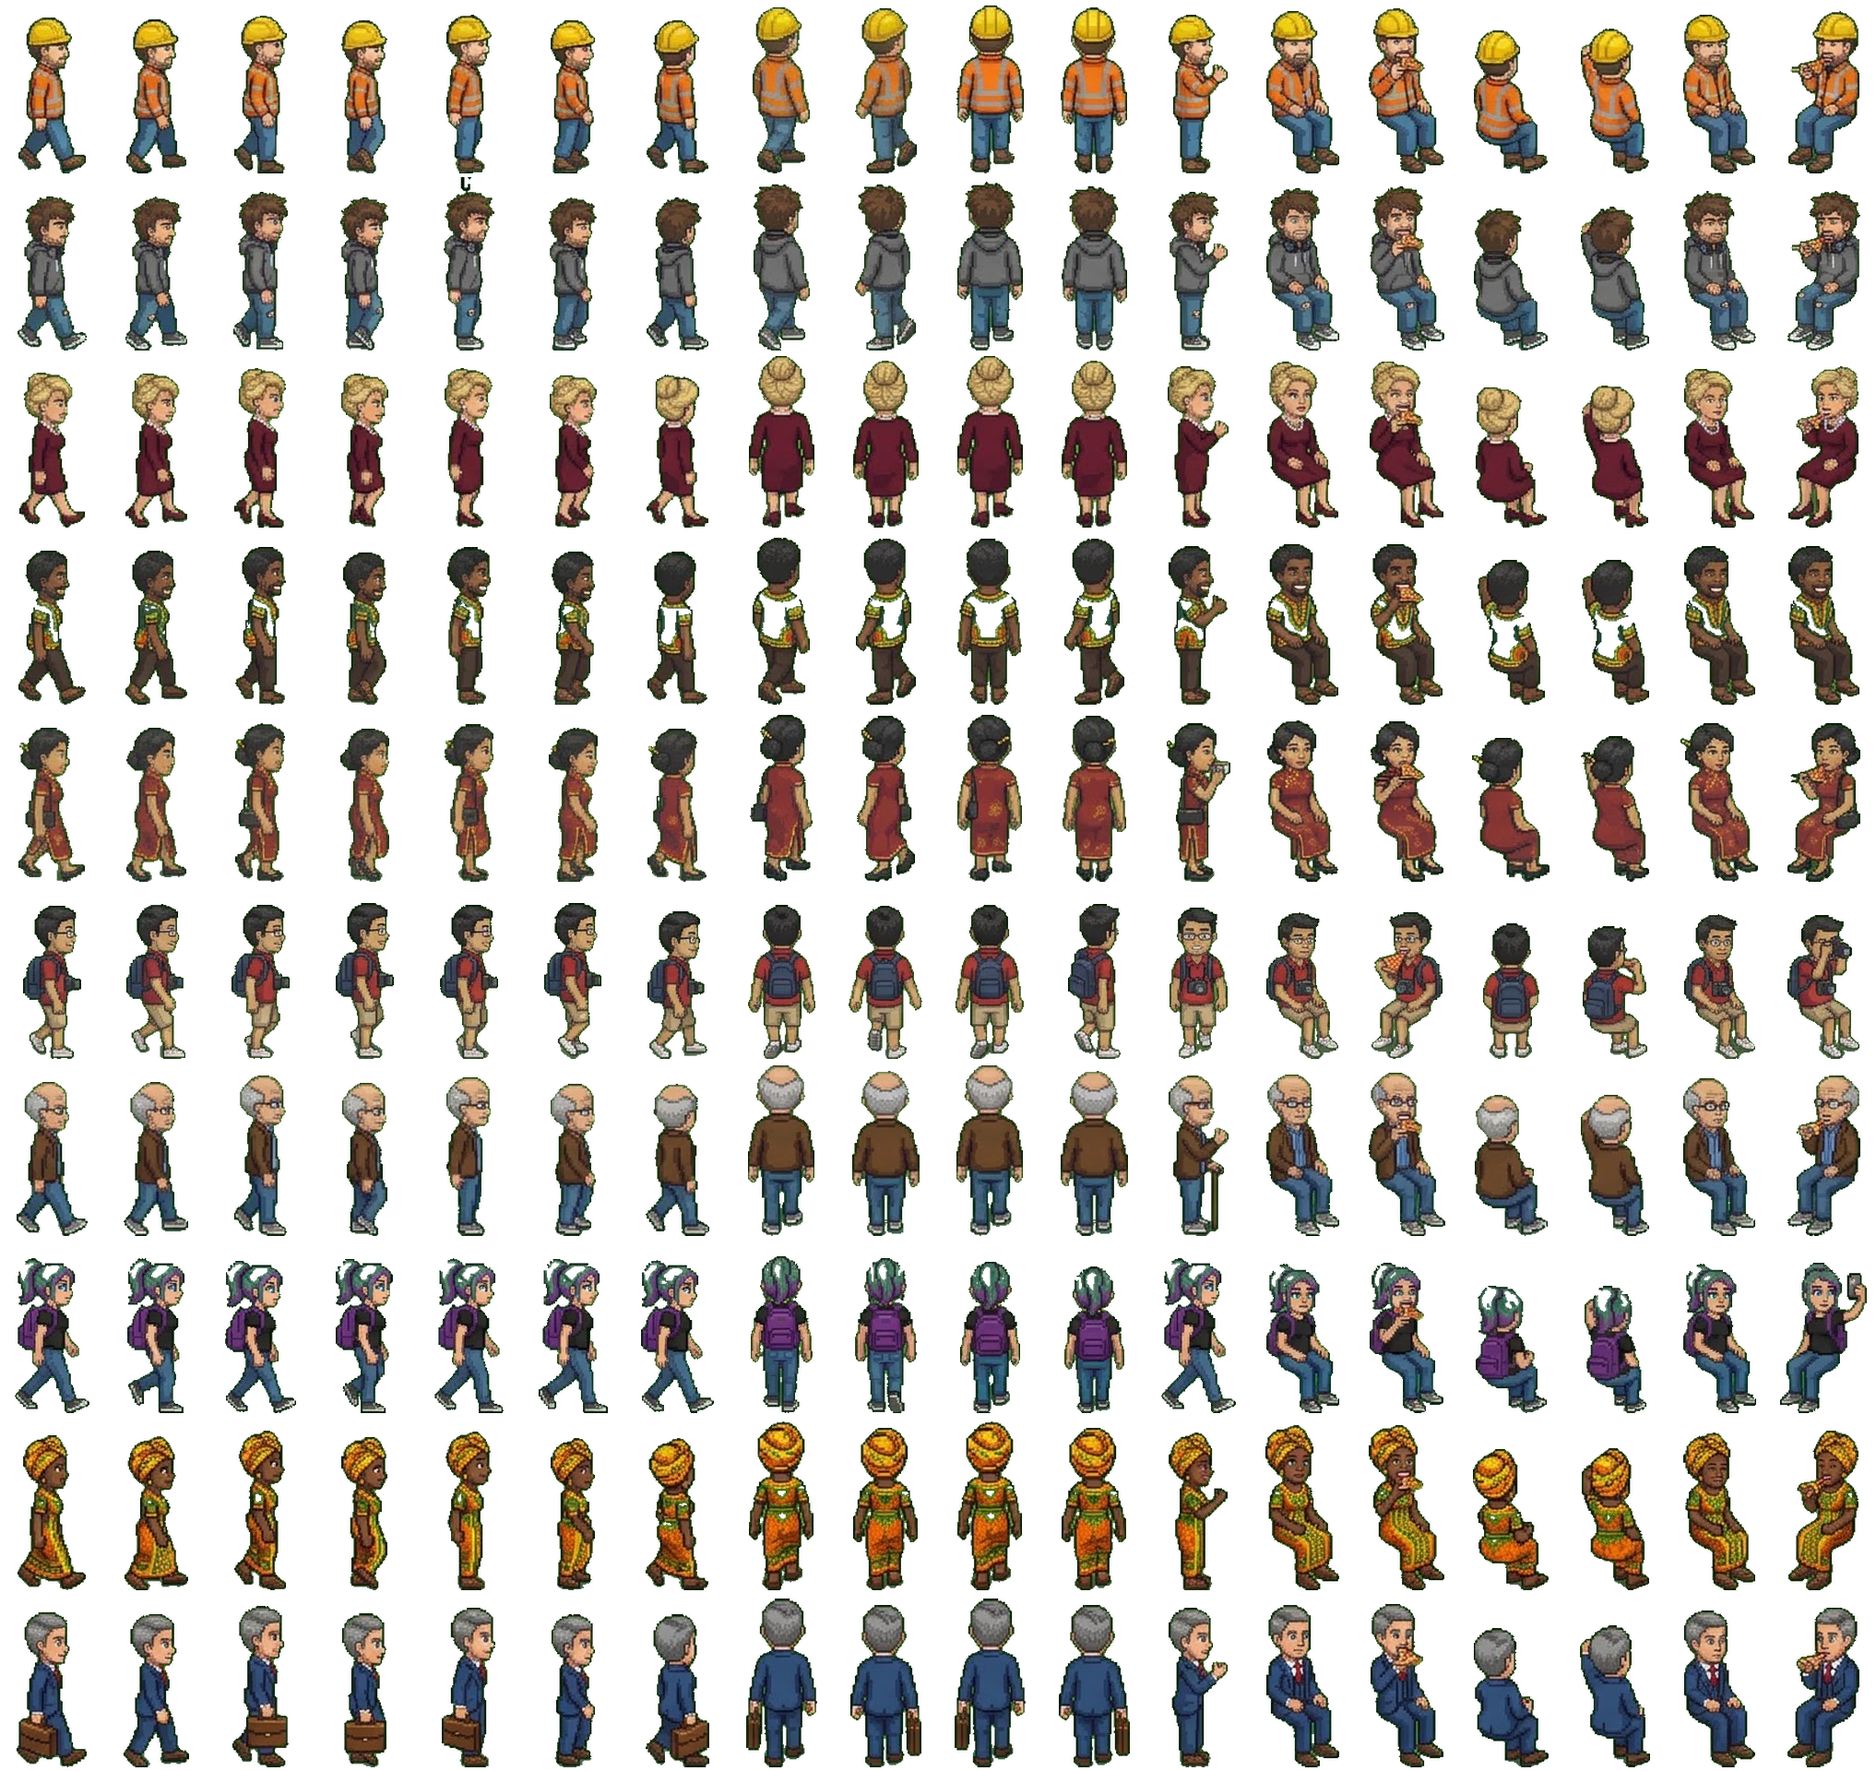
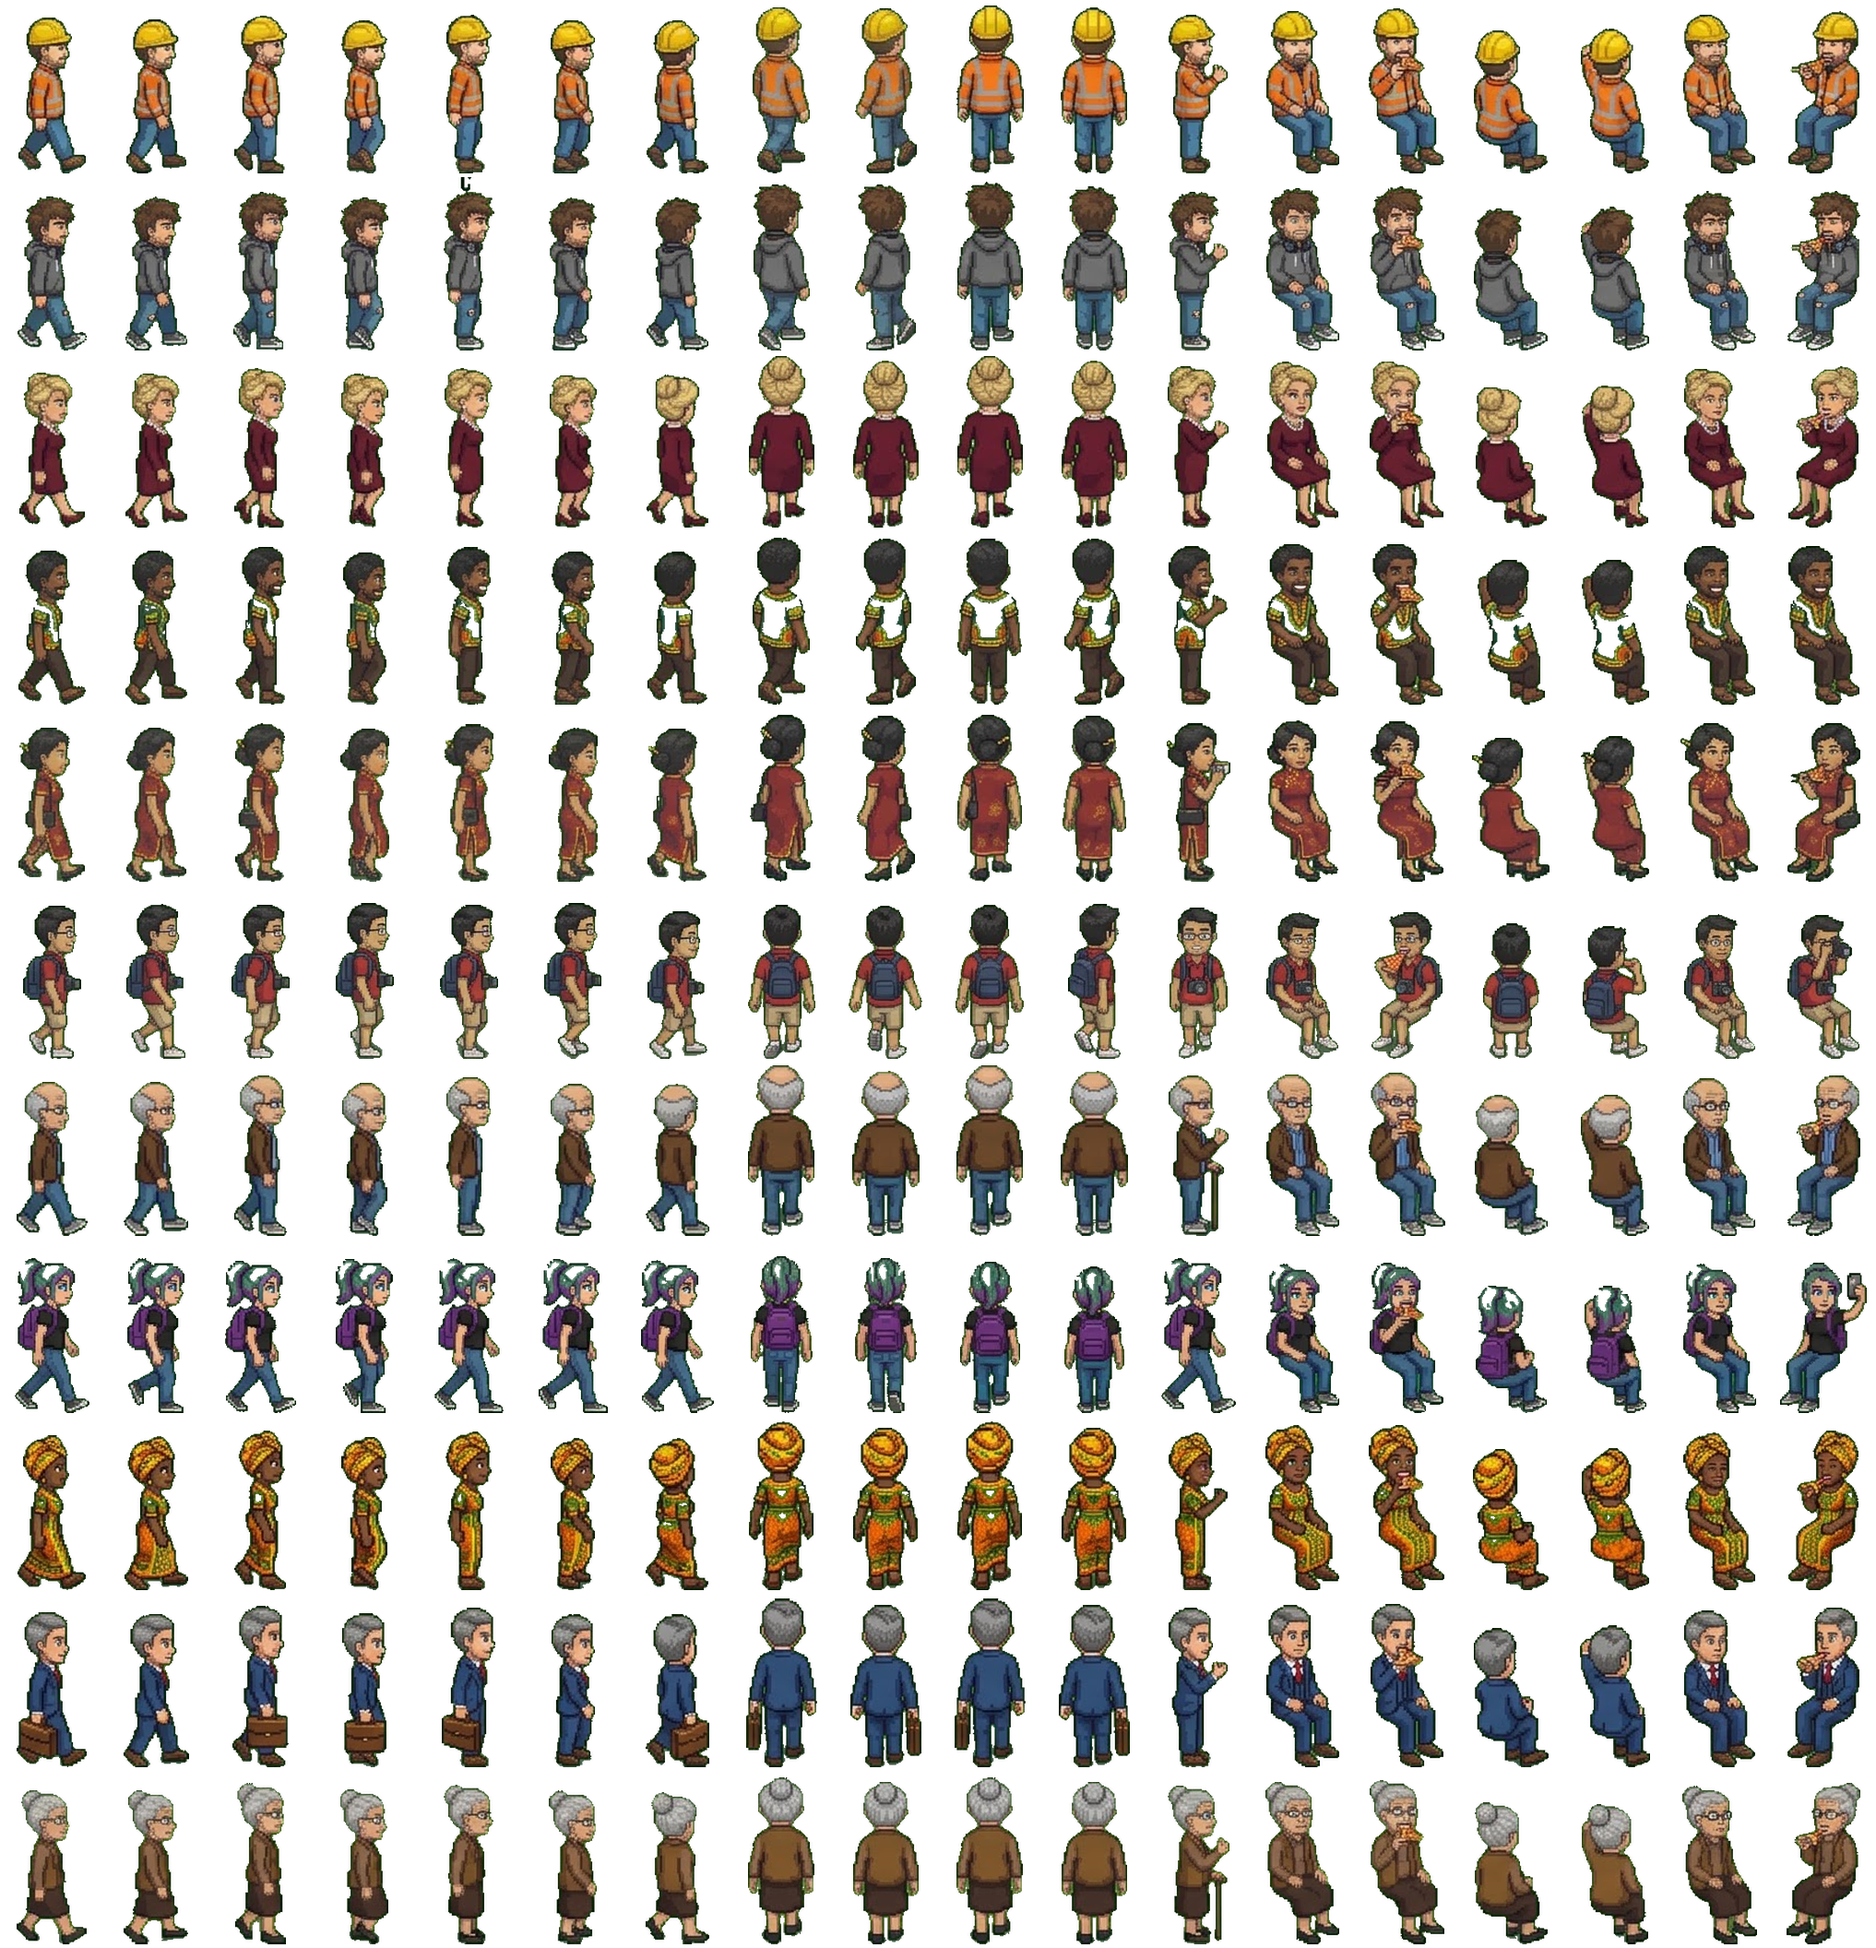
Pizzabaas: oma als figuur; vellen voor managers, Luigi en de drukpers bewaard
Claude-Session: https://claude.ai/code/session_01A1NZDKEqH4AvFTuhgNYDbP

diff --git a/pizzabaas.html b/pizzabaas.html
@@ -1294,10 +1294,10 @@ function figuur(img, p, bijzonder, rug, achter, vel) {
 // pizza/klanten.png: per figuur een rij van 18 plaatjes van 113 x 192: 0-6 lopen opzij (neus naar rechts), 7-10 lopen van achteren, 11 staan,
 // 12 zitten voor, 13 eten voor, 14 zitten achter, 15 eten achter, 16 zitten opzij, 17 eten opzij (zittend: op een onzichtbare stoel)
 // rijen: 0 werker (pizza/werker2-gemini.jpg), 1 student (student2), 2 villadame, 3 Afrikaanse man (afrikaan), 4 Chinese dame (dame-china2), 5 Chinese toerist (toerist),
-// 6 opa (opa2), 7 studente, 8 Afrikaanse vrouw (afrikaanse-vrouw), 9 zakenman
+// 6 opa (opa2), 7 studente, 8 Afrikaanse vrouw (afrikaanse-vrouw), 9 zakenman, 10 oma (oma2)
 const KLANTEN = new Image(); KLANTEN.src = 'pizza/klanten.png';
 const KLANTVEL = (rij) => ({ rij, staan: 11, opzij: [0, 1, 2, 3, 4, 5, 6], rechts: true, rug: 7, rugLoop: [7, 8, 9, 10], fps: 9 });
-const FIGUREN = { werker: [0, 0, 3], student: [1, 7], villa: [2, 9], toerist: [5, 4, 3, 8], opa: [6] }; // oma volgt nog
+const FIGUREN = { werker: [0, 0, 3], student: [1, 7], villa: [2, 9], toerist: [5, 4, 3, 8], opa: [6, 10] };
 function tekenKlantFig(m, nu) { // in wereldcoördinaten (pixels van de zaak); zittend op zijn stoel, of lopend
   const zit = m.st == 'wacht' || m.st == 'eet', v = KLANTVEL(m.fig);
   g.save(); g.translate(m.x * T, m.y * T);

diff --git a/pizza/PLAN.md b/pizza/PLAN.md
@@ -141,6 +141,11 @@ je niet op tijd af, dan is de bank snel klaar met je (geen nieuwe lening, beslag
   schilder?" Normaal kies je iets gewoons (een kunstenaar uit de buurt, de kringloop), maar het geheime antwoord "een échte Van Gogh"
   opent de achterkamer (zie stap 3 hieronder). Daarvoor moet er eerst **een schilderij aan de muur** te koop zijn (versiering).
 
+Vellen klaar voor later (26 okt): managers `pizza/manager-kevin-gemini.jpg` (goedkoop, slordig), `manager-sandra-gemini.jpg` (degelijk),
+`manager-bruno-gemini.jpg` (duur, Italiaans) — elk: 7 profielstappen, 4 rug, 6 staan (gapen/telefoon/klembord/wijzen/…);
+`pizza/luigi-gemini.jpg` (Luigi in groen pak: lopen, rug, armen over elkaar, lachen, wijzen, stampvoeten, met rat);
+`pizza/drukpers-gemini.jpg` (drukpers, kortingsbon, vervalste bon met vlekken, stapel bonnen, inkt, kwast, vergrootglas) voor de valsmunterij.
+
 ## Later: manager en de stad (Marcel, 26 okt) — manager pas samen met de stad bouwen (anders heeft hij geen nut)
 - Stadskaart: `pizza/stad-gemini.jpg` (16:9, plein met fontein en markt, bank, politiebureau, galerie, studentenhuis, bouwplaats,
   3x TE HUUR, gracht met bruggetjes, villawijk). Gebruiken als achtergrond met klikbare plekken eroverheen; is groot genoeg.

diff --git a/pizza/CLAUDE.md b/pizza/CLAUDE.md
@@ -48,7 +48,7 @@ vraag met voorrang): betalen, of een dag uitstel met 10% (of 25%) boete in `S.aa
 neemt max. 3 spullen mee (geen tafels/stoelen) en de zaak is een dag verzegeld (`S.dicht`).
 Klanten als Gemini-figuren (`KLANTEN` = `pizza/klanten.png`, per figuur een rij van 18 plaatjes van 113x192: 0-6 lopen opzij, 7-10 van
 achteren, 11 staan, 12/13 zitten/eten voor, 14/15 achter, 16/17 opzij; `KLANTVEL(rij)`): rij 0 werker, 1 student, 2 villadame, 3 Afrikaanse
-man, 4 Chinese dame, 5 Chinese toerist, 6 opa (`opa2`), 7 studente, 8 Afrikaanse vrouw, 9 zakenman; welke soort welke figuren krijgt staat in `FIGUREN` (`m.fig`; oma volgt nog).
+man, 4 Chinese dame, 5 Chinese toerist, 6 opa (`opa2`), 7 studente, 8 Afrikaanse vrouw, 9 zakenman, 10 oma (`oma2`); welke soort welke figuren krijgt staat in `FIGUREN` (`m.fig`).
 Uitgeknipt per vak van de vaste Gemini-indeling (vellen `pizza/*-gemini.jpg` van 1408x768: onderste rij 7 profielstappen, midden: rug,
 zitten voor/eten/achter/eten, onder rechts zitten opzij). Zittend (`tekenKlantFig`): kant 0 = van voren, 1 = rug, 2 = opzij, 3 = opzij
 gespiegeld; wie boven of naast de tafel zit wordt vóór het tafelblad getekend (in `tekenSpul`, `voorTafel`), zodat de benen eronder verdwijnen.
